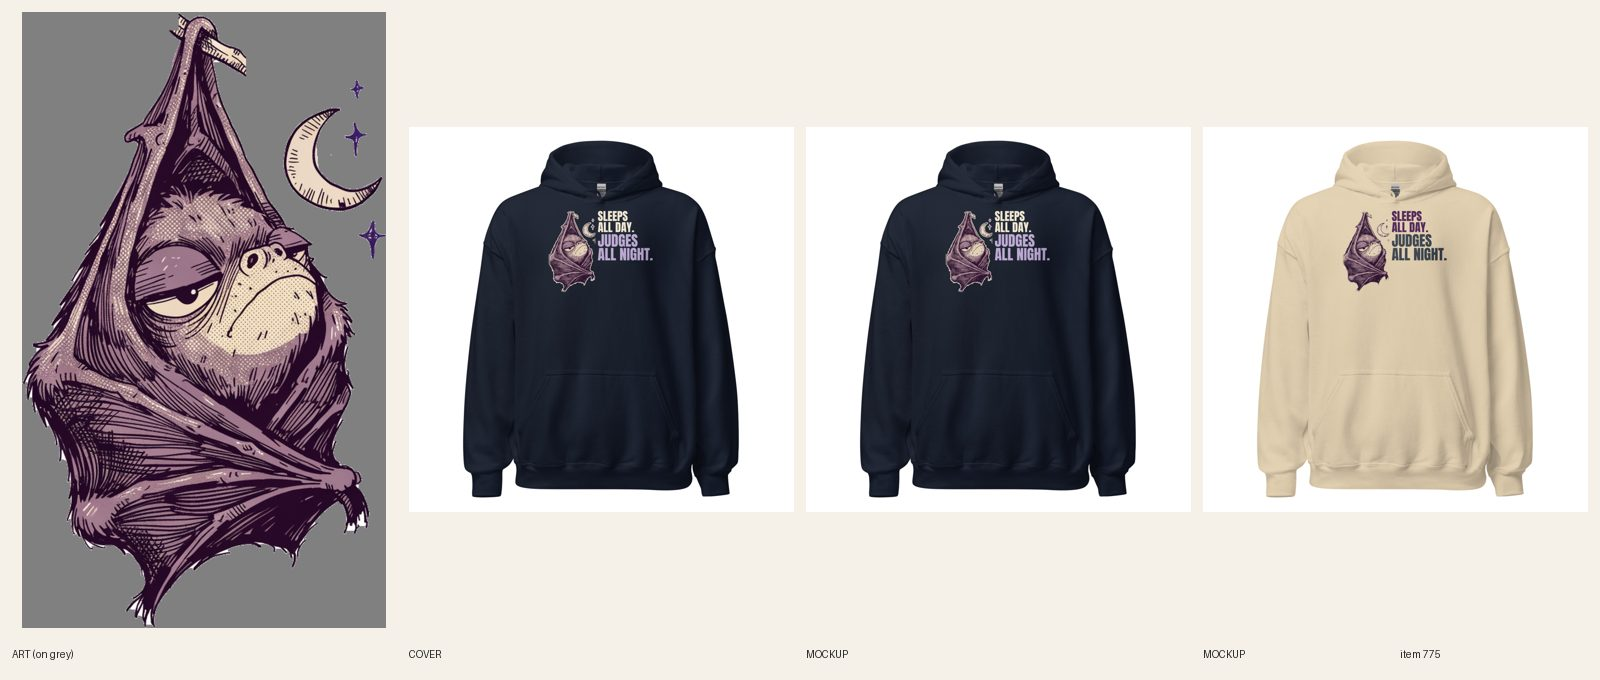
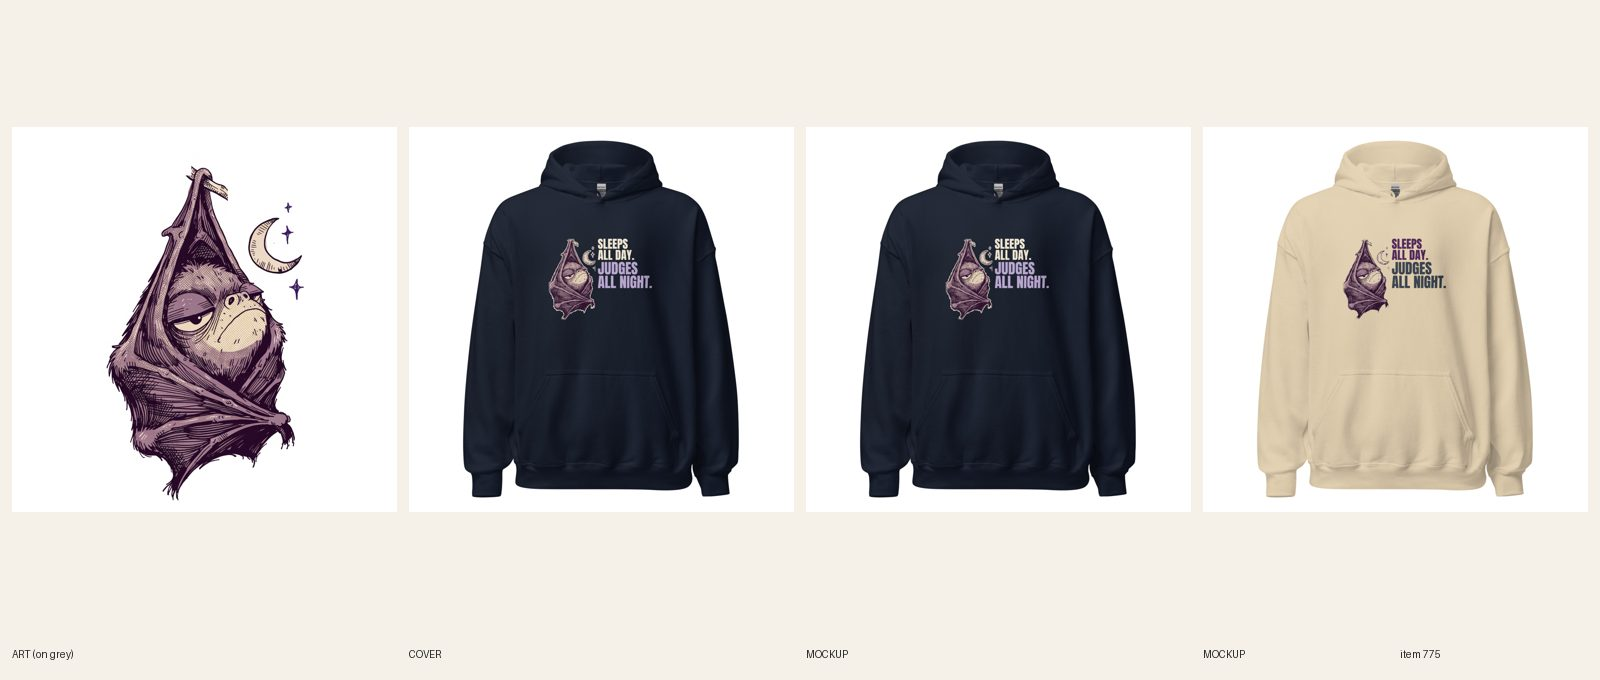
[B] review 775 bat hoodie placement redo; release lock

diff --git a/docs/pipeline/775-bat-hoodie-sleeps-all-day-judges-all-night.md b/docs/pipeline/775-bat-hoodie-sleeps-all-day-judges-all-night.md
@@ -1,4 +1,4 @@
-status: BUILDING [B] 2026-11-12 13:55 UTC
+status: REVIEW
 shopify: gid://shopify/Product/15371507269936
 lane: C
 type: new
@@ -30,3 +30,4 @@ kd: 28
 - 2026-10-21 02:36 UTC lane C: REDO round 2 (director 02:30), art stays ($0). Re-laid per the note: bat on the left at 46% of the lockup width, the words stacked to its right as one block SLEEPS / ALL DAY. / JUDGES / ALL NIGHT. with JUDGES / ALL NIGHT. the biggest lines (font size about 1.3x the small pair); the twig is cropped to a short stub (scripts: white-out of both twig ends on the source art, then scripts/prep-seal.py) so the bat's top sits level with SLEEPS. Anton; navy cream + dusty lilac with a cream edge on the art, sand deep plum #4a1c54 + dark slate #343e4a. 7h line widths: SLEEPS 995 / ALL DAY. 1207 / JUDGES 1325 / ALL NIGHT. 1829 px (every line at least as wide as SLEEPS; the big pair is the widest and tallest). 7k: type 1519 px of 2726 px print height (56% by line height; block 61%). 7l: subject 1580 px of 3479 px lockup width = 45%. Print is 3479 x 2726 (aspect 0.78), FW 1500, ends well above the pouch seam on both mockups. New files: Sand 1090852608 (plum + slate ink, no cream), Navy 1090852614 (cream small pair, lilac big pair, cream edge); 12/12 re-linked and verified via GET /sync/products (6 Sand, 6 Navy), back logo 1080398177. Shopify: old media deleted, 3 new (Navy front first, Sand front, neck-logo back last) linked per color; the story's art paragraph rewritten for the side layout. Phone-size read of every word on Navy and Sand: SLEEPS, ALL DAY., JUDGES, ALL NIGHT. all legible. Line one unchanged (print's words + who + when, no superlative). Title unchanged. Review sheet remade.
 - 2026-10-21 03:16 UTC director: APPROVED on docs/review/775.jpg, held at REVIEW for the 6-LIVE cap (used this run). Round 2 fixes the note: bat at the left, words stacked beside it, JUDGES / ALL NIGHT. the loudest lines; grumpy half-open eye sells the judging. Beside 493 Calm Face: at least the bar.
 - 2026-10-28 14:40 UTC director: REDO (placement only; art, lines, copy and approval stand). 1. Builder 7m / docs/backlog/camo-redo.md item 1 (Sam 2026-10-22): never TOP 0 on a hoodie; this print sits at TOP 0 jammed under the collar on every mockup. Re-place the same file center chest at FW 1500, TOP 400 (check TOP + height fits the Gildan 18500 area; trim the art's bottom with a worn edge rather than shrink under FW 1500, R5.3.2). 2. R7.7: confirm every variant on the new placement from GET /sync/products and log the count. 3. New front mockups in place (fileUpdate), image 1 the printed front (R6.13), and a new docs/review/<id>.jpg; an old sheet comes straight back. No fal needed. Returns to REVIEW for a placement check only.
+- 2026-11-12 14:00 UTC lane B: REDO placement only (director 2026-10-28), art and copy unchanged, fal $0. Same Printful files (Sand 1090852608, Navy 1090852614) re-placed FW 1500 / TOP 400 on all 12/12 variants (12/12 synced); new front mockups on Sand and Navy replaced in place on Shopify (fileUpdate, alts unchanged, image order unchanged, back image untouched); phone-size check of the Navy front: print sits center chest well below the collar, words readable. docs/review/775.jpg rebuilt. Cohesion audit not run this pass (placement-only; node_modules symlink crash, director to run). Returns to REVIEW for a placement check.

diff --git a/docs/intake-log.md b/docs/intake-log.md
@@ -1,4 +1,4 @@
-RUNNING lane B since 2026-11-12 13:55 UTC
+2026-11-12 UTC — [B] built, REVIEW #775 Unisex Bat – Sleeps All Day. Judges All Night. Hoodie (placement-only REDO: FW 1500 / TOP 400, 12/12, front mockups replaced in place, fal $0). New products today: 0 of 6 (in-place redo). Builder run end: every other READY item needs fal art (wallet spent), waits on a parent (#700 PARKED), or is blocked. Lock released.
 RUNNING director since 2026-11-11 23:20 UTC
 2026-11-11 23:50 UTC — [H] Helper run: Telegram inbox empty (getUpdates 0 updates from offset 181475158; nothing to consume, no pause, resume or TikTok links). Shopify: orders created since 2026-11-11 14:55 UTC returned none, and the unfiltered list is empty too, so no order alert and no Printful hold check. Audit 818 live products: 0 errors, 531 warnings left alone; committed docs/cohesion-audit.md and .json (npm ci run in place; the tracked node_modules symlink restored after, the npm folder moved to the scratchpad). Category check: 0 products without a Shopify category (no mutation). Site check: newest ACTIVE products womens-capybara-per-my-last-email-im-soaking-hoodie and womens-cat-oops-anyway-hoodie 200; homepage 200; bookish-plot-twist-i-stayed-in-ornament (#785) 404, but #785 is REVIEW in the pipeline (not LIVE), so not a deploy alert; see the conflict below. Stuck work: 0 BUILDING items; director lock (23:20 UTC) under 2 hours. Daily summary not due (sent at the 14:55 UTC run today). Telegram alert sent: #785 is ACTIVE in Shopify but REVIEW in the pipeline, 404 on the site, asked Sam to choose leave / draft / approve. Lock released.
 2026-11-11 UTC — [B] built, REVIEW #785 Christmas – Bookish Plot Twist: I Stayed In Ornament (add-on of #262's approved scene, DRAFT synced 1/1 on #881, fal $0, navy disc, headline 577 / punch 579 px, $14.99 no compare-at, audit 0 errors). New products today: 1 of 6.
